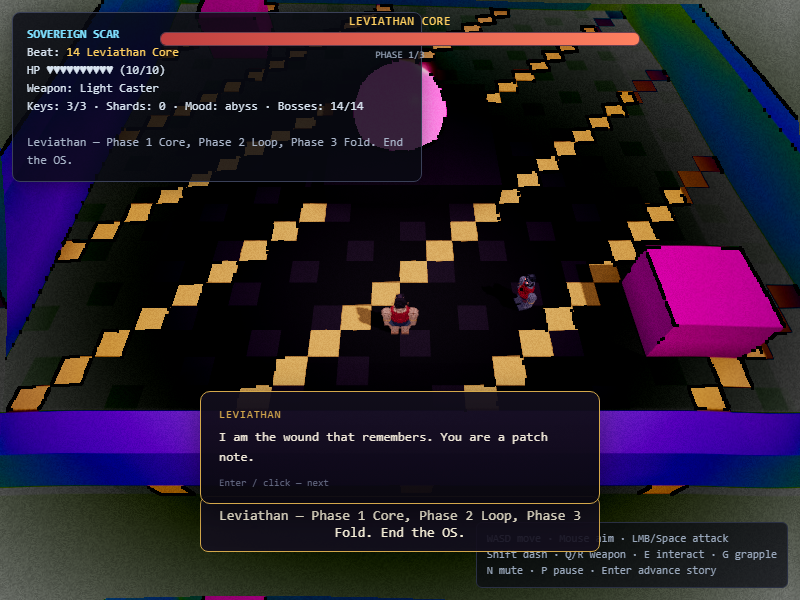
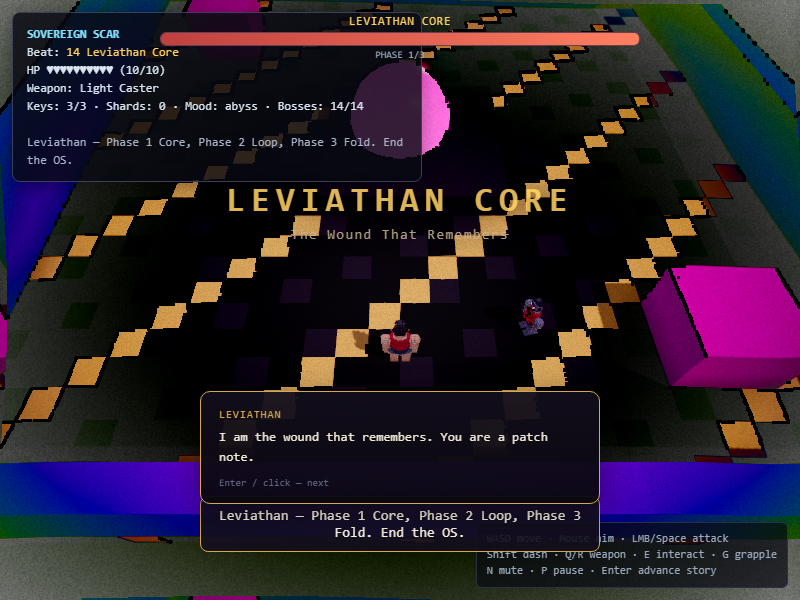
feat(C3): Beat 08 Bone Forest as an 8-room abyss dungeon
Bone-arch grove with vertebra-step decks (multi-Y), grave-rubbing
map, shatterable caged cache, wedge-cracked marrowcyst secret,
rib-deck boss key, Skeletal Mantis prayerhollow.

Suite 847/847.

diff --git a/src/game/levels/beat-08-bone.js b/src/game/levels/beat-08-bone.js
@@ -1,55 +1,240 @@
-import { createLevelShell, ABYSS_COLORS } from './_common.js';
-import { fillBox } from '../../voxel/helpers.js';
-import { buildBoneArch, stampMap, buildBoulder } from '../assets/props.js';
+// Beat 08 — The Bone Forest (Skull Woods).
+// C3: 8-room ossuary grove under a dead god's ribs. Bone arches, elevated
+// bone decks (multi-Y platforms), a caged cache to shatter.
+//
+// Layout:                [prayerhollow]   Skeletal Mantis (boss door)
+//                        [ribvault]       boss key on a bone deck
+//      [marrowcyst*] —   [ossuary]        locked, altar, key 2
+//    [gravecanopy] — [bonegrove] — [femurstand]
+//        map            key 1          caged cache + mallet play
+//                        [rootgate]       start; S exit → overworld
+
 import * as THREE from 'three';
+import { createDungeon } from '../world/room-graph.js';
+import { addKeyPickup } from '../world/keys.js';
+import { ABYSS_COLORS } from '../assets/palettes.js';
+import { buildBoneArch, stampMap, buildBoulder } from '../assets/props.js';
 import { DestructibleVoxelMesh } from '../world/destructible-voxel-mesh.js';
 import { SkeletalMantis, attachBoss } from '../bosses/index.js';
+import { addAltar } from '../world/altar.js';
+
+export const BEAT08_DEF = {
+    id: 'beat-08-bone',
+    name: '08 Bone Forest',
+    mood: 'abyss',
+    start: 'rootgate',
+    prebake: true,
+    floorColor: 0x2a2618,
+    wallColor: ABYSS_COLORS.abyssWall,
+    banner: 'Ribs of a dead god form this canopy. Something prays with blades.',
+    keys: [
+        { room: 'bonegrove', type: 'small' },
+        { room: 'ossuary', type: 'small' },
+        { room: 'ribvault', type: 'boss' },
+    ],
+    onExit(game) {
+        game.loadLevel?.('overworld');
+    },
+    rooms: {
+        rootgate: {
+            grid: [0, 0],
+            half: 7,
+            wallH: 4,
+            spawn: { x: 0, z: 4 },
+            build(map, h) {
+                stampMap(map, buildBoneArch(0, -3, 4, 5), 0, 1, 0);
+            },
+            doors: [
+                { to: 'bonegrove', side: 'N', at: 0, type: 'open' },
+                { to: '_world', side: 'S', at: 0, type: 'exit' },
+            ],
+        },
+        bonegrove: {
+            grid: [0, -1],
+            half: 11,
+            wallH: 4,
+            build(map, h) {
+                stampMap(map, buildBoneArch(0, 0, 5, 6), 0, 1, 0);
+                stampMap(map, buildBoneArch(-6, 4, 3, 4), 0, 1, 0);
+                stampMap(map, buildBoneArch(6, -4, 3, 5), 0, 1, 0);
+            },
+            enemies: [
+                { x: -5, z: 4, kind: 'sentinel', hp: 4 },
+                { x: 5, z: -5, kind: 'scarab', hp: 4, ai: 'charge' },
+            ],
+            doors: [
+                { to: 'rootgate', side: 'S', at: 0, type: 'open' },
+                { to: 'ossuary', side: 'N', at: 0, type: 'locked' },
+                { to: 'gravecanopy', side: 'W', at: 0, type: 'open' },
+                { to: 'femurstand', side: 'E', at: 0, type: 'open' },
+            ],
+            onBake(level, origin) {
+                addKeyPickup(level, 'beat-08-bone', 'grove-key',
+                    { x: origin.x + 9, y: 1.2, z: origin.z + 9 }, 'small');
+            },
+        },
+        gravecanopy: {
+            grid: [-1, -1],
+            half: 7,
+            wallH: 4,
+            build(map, h) {
+                stampMap(map, buildBoneArch(0, 0, 3, 4), 0, 1, 0);
+            },
+            enemies: [{ x: 3, z: 3, kind: 'frost', hp: 3, ai: 'ranged' }],
+            doors: [{ to: 'bonegrove', side: 'E', at: 0, type: 'open' }],
+            onBake(level, origin) {
+                if (!level.keyStore.mapPickup()) {
+                    level.addPickup({ x: origin.x - 4, y: 1.2, z: origin.z - 4 }, {
+                        color: 0x9ad0ff,
+                        label: 'Grave rubbings',
+                        onPickup(game) {
+                            level.keyStore.markMapPickup();
+                            game.hud?.toast?.('Grave rubbings — the map reveals the grove');
+                        },
+                    });
+                }
+            },
+        },
+        femurstand: {
+            grid: [1, -1],
+            half: 8,
+            wallH: 4,
+            enemies: [{ x: -3, z: -3, kind: 'scarab', hp: 4, ai: 'charge' }],
+            platforms(map, h) {
+                // A bone deck reached by 1-high vertebra steps
+                for (let lvl = 1; lvl <= 3; lvl++) {
+                    const r = 3 - lvl;
+                    h.fillBox(map, -4 - r, -4 + r, lvl, lvl, -4 - r, -4 + r, ABYSS_COLORS.bone);
+                }
+            },
+            doors: [{ to: 'bonegrove', side: 'W', at: 0, type: 'open' }],
+            onBake(level, origin, ctx) {
+                // The caged cache: shatter the bone boulder to reach it
+                const cage = buildBoulder(0, 0, 0, 2, ABYSS_COLORS.bone);
+                const dest = new DestructibleVoxelMesh(
+                    cage,
+                    new THREE.MeshStandardMaterial({ vertexColors: true, roughness: 0.8 }),
+                    ctx.particles,
+                    ctx.collisionWorld,
+                    'b08-bone-cage',
+                    { origin: { x: origin.x + 4, y: 0.5, z: origin.z + 3 }, scene: ctx.scene, voxelSize: 0.4 }
+                );
+                level.destructibles.push(dest);
+                level.addSystem({ update() {}, dispose: () => dest.dispose() });
+                level.addPickup({ x: origin.x + 4, y: 1.2, z: origin.z + 3 }, {
+                    color: 0x7fe0ff,
+                    label: 'Caged cache',
+                    onPickup(game) {
+                        game.player.inventory.addShards(25);
+                        game.hud?.toast?.('Caged cache — 25 shards');
+                    },
+                });
+            },
+        },
+        ossuary: {
+            grid: [0, -2],
+            half: 9,
+            wallH: 4,
+            build(map, h) {
+                h.fillBox(map, -7, -6, 1, 3, -3, 3, ABYSS_COLORS.bone);
+                h.fillBox(map, 6, 7, 1, 3, -3, 3, ABYSS_COLORS.bone);
+            },
+            enemies: [
+                { x: -4, z: 0, kind: 'sentinel', hp: 4 },
+                { x: 4, z: 0, kind: 'frost', hp: 3, ai: 'ranged' },
+            ],
+            doors: [
+                { to: 'bonegrove', side: 'S', at: 0, type: 'locked' },
+                { to: 'ribvault', side: 'N', at: 0, type: 'locked' },
+                { to: 'marrowcyst', side: 'W', at: 3, type: 'open', width: 1 },
+            ],
+            onBake(level, origin, ctx) {
+                addAltar(level, ctx, { x: origin.x + 6, z: origin.z + 6 });
+                addKeyPickup(level, 'beat-08-bone', 'ossuary-key',
+                    { x: origin.x - 6, y: 1.2, z: origin.z - 6 }, 'small');
+            },
+        },
+        marrowcyst: { // secret: wedge-cracked marrow pocket
+            grid: [-1, -2],
+            half: 5,
+            wallH: 4,
+            doors: [{ to: 'ossuary', side: 'E', at: 3, type: 'open', width: 1 }],
+            blockers: [
+                { type: 'wedge_crack', id: 'b08-marrow-crack', at: { x: -2, z: -2 }, w: 2, h: 2 },
+            ],
+            onBake(level, origin) {
+                level.addPickup({ x: origin.x + 2, y: 1.2, z: origin.z + 2 }, {
+                    color: 0x7fe0ff,
+                    label: 'Marrow cache',
+                    onPickup(game) {
+                        game.player.inventory.addShards(30);
+                        game.hud?.toast?.('Marrow cache — 30 shards');
+                    },
+                });
+            },
+        },
+        ribvault: {
+            grid: [0, -3],
+            half: 8,
+            wallH: 5,
+            enemies: [
+                { x: -3, z: -3, kind: 'scarab', hp: 4, ai: 'charge' },
+                { x: 3, z: -3, kind: 'sentinel', hp: 4 },
+                { x: 0, z: 3, kind: 'frost', hp: 3, ai: 'ranged' },
+            ],
+            platforms(map, h) {
+                for (let lvl = 1; lvl <= 3; lvl++) {
+                    const r = 3 - lvl;
+                    h.fillBox(map, -r, r, lvl, lvl, -4 - r, -4 + r, ABYSS_COLORS.bone);
+                }
+            },
+            doors: [
+                { to: 'ossuary', side: 'S', at: 0, type: 'locked' },
+                { to: 'prayerhollow', side: 'N', at: 0, type: 'boss' },
+            ],
+            onBake(level, origin) {
+                addKeyPickup(level, 'beat-08-bone', 'rib-boss-key',
+                    { x: origin.x, y: 4.4, z: origin.z - 4 }, 'boss');
+            },
+        },
+        prayerhollow: {
+            grid: [0, -4],
+            half: 13,
+            wallH: 5,
+            build(map, h) {
+                stampMap(map, buildBoneArch(0, 0, 5, 6), 0, 1, 0);
+                stampMap(map, buildBoneArch(-6, 4, 3, 4), 0, 1, 0);
+                stampMap(map, buildBoneArch(6, -4, 3, 5), 0, 1, 0);
+            },
+            doors: [{ to: 'ribvault', side: 'S', at: 0, type: 'boss' }],
+            boss(ctx, level, origin) {
+                const mantis = new SkeletalMantis(ctx.scene, {
+                    x: origin.x, y: 1.3, z: origin.z - 3,
+                });
+                attachBoss(level, mantis, {
+                    nextBeat: 'beat-09-town',
+                    toast: 'Mantis broken — Ruined Town stirs',
+                });
+            },
+            onEnter(game) {
+                const boss = game?.level?.boss;
+                if (boss && !boss.defeated && !this._introFired) {
+                    this._introFired = true;
+                    game.bossIntro = { t: 0.6, boss, fired: false };
+                    game.mood?.setMusicProfile?.('boss');
+                }
+            },
+        },
+    },
+};
 
 export function loadBeat08(ctx) {
-    const level = createLevelShell(ctx, {
-        id: 'beat-08-bone',
-        name: '08 Bone Forest',
-        half: 13,
-        mood: 'abyss',
-        floorColor: 0x1a1810,
-        wallColor: ABYSS_COLORS.abyssWall,
-        spawn: { x: 0, y: 1.2, z: 10 },
-        banner: 'Skeletal Mantis scythes the grove. Stay behind its arcs.',
-        stamp(map) {
-            stampMap(map, buildBoneArch(0, 0, 5, 6), 0, 1, 0);
-            stampMap(map, buildBoneArch(-6, 4, 3, 4), 0, 1, 0);
-            stampMap(map, buildBoneArch(6, -4, 3, 5), 0, 1, 0);
-            fillBox(map, -4, 4, 4, 4, -8, -4, ABYSS_COLORS.bone);
-            fillBox(map, -2, 2, 5, 5, -10, -8, ABYSS_COLORS.bone);
-        },
-    });
-
-    level.musicBed = 'boss';
+    const level = createDungeon(ctx, BEAT08_DEF);
+    level.suppressBossIntro = true;
+    level.musicBed = 'abyss';
     level.story = [
         { speaker: 'PREDECESSOR', text: 'Ribs of a dead god form this canopy. Something still prays with blades.' },
         { speaker: 'SYSTEM', text: 'Sidestep scythe telegraphs. Upper decks are safer for ranged.' },
     ];
-
-    const cage = buildBoulder(0, 0, 0, 2, ABYSS_COLORS.bone);
-    const dest = new DestructibleVoxelMesh(
-        cage,
-        new THREE.MeshStandardMaterial({ vertexColors: true, roughness: 0.8 }),
-        ctx.particles,
-        ctx.collisionWorld,
-        'bone-cage',
-        { origin: { x: 0, y: 4.5, z: -6 }, scene: ctx.scene, voxelSize: 0.4 }
-    );
-    level.destructibles.push(dest);
-    level.addSystem({ update() {}, dispose: () => dest.dispose() });
-
-    level.addEnemy({ x: -4, y: 1, z: 2 }, { kind: 'sentinel', hp: 4 });
-    level.addEnemy({ x: 4, y: 5.2, z: -6 }, { kind: 'scarab', hp: 3, ai: 'charge' });
-
-    const mantis = new SkeletalMantis(ctx.scene, { x: 0, y: 1.3, z: -3 });
-    attachBoss(level, mantis, {
-        nextBeat: 'beat-09-town',
-        toast: 'Mantis broken — Ruined Town stirs',
-    });
-
     return level;
 }